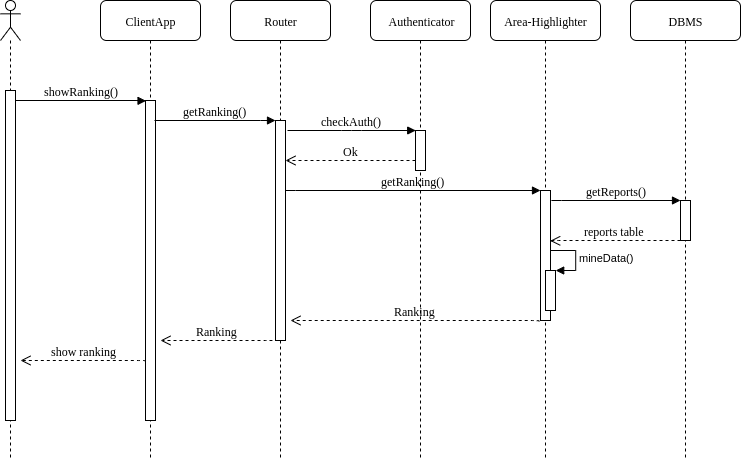
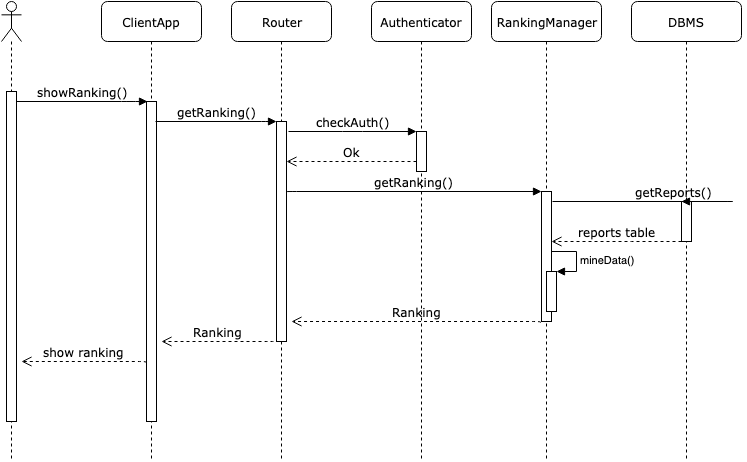
DD section 2 updates

diff --git a/DD/DD-SafeStreets.tex b/DD/DD-SafeStreets.tex
@@ -125,6 +125,7 @@ Furthermore, thanks to the increased number of tickets, the municipality will ha
 
 \section{Architectural design}
 \subsection{Overview: High-level components and their interaction}
+\label{sec:Overview}
 The application will be developed with three logic software layers: 
 \begin{itemize}
 	\item Presentation (P) manages the user interaction with the system 
@@ -165,8 +166,7 @@ the application server uses to offer its functionalities.
 	\item \textbf{ReportManager}: Manages all the requests inerent to reports (e.g. get list of report, send new report) and is responsible to check if the new reports are consistent. Also collects reports form the database to pass them to other components.
 	\item \textbf{Area-Highlighter}: Elaborates the reports to find in which area more violations are committed.
 	\item \textbf{RankingManager}: Elaborates the valid reports to create a ranking of the vehicles that committed more violations.
-	\item \textbf{NotificationManager}: Manage all the subscriptions for notification made by the client's app when a traffic warden log in and send the notification to them when a new report is added.
-	\item \textbf{NotificationManager}: Manage all the subscriptions for notification made by the client's app when a traffic warden log in and send the notification to them when a new report is added.
+	\item \textbf{NotificationManager}: Manages all the subscriptions for notification made by the client's app when a traffic warden log in and send the notification to them when a new report is added.
 	\item \textbf{ALPR}: Elaborates the picture of the violation to extract the license plate. This component is designed to be separate by the others so that if after deployment it will became overload it could be deployed on a different server.
 	\item \textbf{SuggestionSubsystem}: More in detail:
 		\\
@@ -183,6 +183,7 @@ the application server uses to offer its functionalities.
 \newpage
 
 \subsection{Deployment view}
+\label{sec:Deployment}
 The following diagram models the physical deployment of artifacts (software components) on nodes (hardware components).
 External services like the Map Provider are not included.
 \begin{figure}[ht]
@@ -203,7 +204,9 @@ External services like the Map Provider are not included.
 \end{itemize}
 
 \subsection{Runtime view}
- In this section are shown the sequence diagrams of some features. They are useful to clarify the runtime behaviour of the components involved for each functionality.
+\label{sec:Runtime}
+ In this section are shown the sequence diagrams of some features. They are useful to clarify the runtime behaviour of the components involved for each functionality.\\
+ In order to keep the diagrams more readable the parameters of the method invoked are not shown.
 \newpage
 \subsubsection{Report Violation}
 \begin{figure}[ht]
@@ -217,7 +220,7 @@ The numbers present in some responses refer to HTTP response status codes:
 	\item \textbf{201 Created}: The request has been fulfilled, resulting in the creation of a new resource.
 	\item \textbf{400 Bad Request}: The server cannot or will not process the request due to an apparent client error (e.g., malformed request syntax, size too large, invalid request message framing, or deceptive request routing).
 	\item \textbf{401 Unauthorized}: The user does not have valid authentication credentials for the target resource.
-	\item \textbf{409 Conflict}: Indicates that the request could not be processed because of conflict in the current state of the resource, such as an edit conflict between multiple simultaneous updates.
+	\item \textbf{409 Conflict}: Indicates that the request could not be processed because of conflict in the current state of the resource. 
 \end{itemize}
 \subsubsection{Login}
 \begin{figure}[ht]
@@ -241,18 +244,123 @@ This diagram also shows the differences in the login process between a standard 
 
 The diagram shows how there are no human actors involved. This is an automated process triggered by a timer (runs once every day). \\
 The data needed by the SuggestionMiner are fetched from the Municipality Server and from the SafeStreets DBMS. The updated suggestions list is then stored on the database.
+\newpage
+\subsubsection{Visualize area with more violation on the map}
+\begin{figure}[ht]
+\centering
+	\includegraphics[width=1.0\textwidth]{images/area-highlight-sequence.png}
+	\caption{Suggestions sequence diagram}
+	\label{fig:area-highlight-sequence}
+\end{figure}
 
-\subsubsection{Visualize public available data on the map}
+\newpage
+\subsubsection{Visualize ranking of vehicles that committed more violation}
+\begin{figure}[ht]
+\centering
+	\includegraphics[width=1.0\textwidth]{images/ranking-sequence.png}
+	\caption{Suggestions sequence diagram}
+	\label{fig:ranking-sequence}
+\end{figure}
+
+\newpage
 \subsubsection{Visualize suggestions for possible interventions}
+\begin{figure}[ht]
+\centering
+	\includegraphics[width=1.0\textwidth]{images/visualize-suggestion-sequence.png}
+	\caption{Suggestions sequence diagram}
+	\label{fig:visualize-suggestion-sequence}
+\end{figure}
 
+\newpage
 \subsection{Component interfaces}
 Details on method on interfaces previously indentified, consistency check ( labels messages used in runtimeview consistent with the interfaces of components)
 \\
-use tables ?
+use tables with name of the methods rather than diagramith name of the methods rather than diagram
+\\
+This viewpoint consists of a set of interface specifications for each entity.
+
+\begin{itemize}
+	\item \textbf{Router}:
+		\begin{itemize}
+			\item \textbf{API:getReportTypes()}:
+			\item \textbf{API:sendReport()}:
+			\item \textbf{login()}:
+			\item \textbf{subscribe()}:
+			\item \textbf{getHighlightedArea()}:
+			\item \textbf{getRanking()}:
+			\item \textbf{getSuggestion()}:
+		\end{itemize}
+	\item \textbf{Authenticator}:
+		\begin{itemize}
+			\item \textbf{checkAuth()}:
+			\item \textbf{login()}:
+		\end{itemize}
+	\item \textbf{ReportManager}:
+		\begin{itemize}
+			\item \textbf{sendNotification()}:
+			\item \textbf{getReportTypes()}:
+			\item \textbf{saveReport()}:
+			\item \textbf{getReportList()}:
+		\end{itemize}
+	\item \textbf{Area-Highlighter}: 
+		\begin{itemize}
+			\item \textbf{getHighlightedArea()}:
+		\end{itemize}
+	\item \textbf{RankingManager}: 
+		\begin{itemize}
+			\item \textbf{getRanking()}:
+		\end{itemize}
+	\item \textbf{NotificationManager}:
+		\begin{itemize}
+			\item \textbf{sendNotification()}:
+			\item \textbf{subscribe()}:
+		\end{itemize}
+	\item \textbf{ALPR}:
+		\begin{itemize}
+			\item \textbf{recognizeLicensePlate()}:
+		\end{itemize}
+	\item \textbf{SuggestionSubsystem}: More in detail:
+	\item \textbf{SuggestionDisplayer}:
+		\begin{itemize}
+			\item \textbf{getSuggestion()}:
+		\end{itemize}
+	\item \textbf{SuggestionMiner}:
+		\begin{itemize}
+			\item \textbf{start()}:
+		\end{itemize}
+\end{itemize}
+
+
 \subsection{Selected architectural styles and patterns}
 list all design decisions (al least references to ...) explain how they're used , variants...
+\begin{itemize}
+\item \textbf{RESTful architecture}: REST is a software architectural style. \\
+The communication between SafeStreets ApplicationServer and the user application uses HTTP(S) requests which follows REST principles.
+One of the most important REST principles is that the interaction between the client and server is stateless between requests. Each request from the client to the server must contain all of the information necessary to understand the request. For instance the client wouldn’t notice if the server were to be restarted at any point between the requests.
+This is achieved using a uniform and predefined set of stateless operations based on strict use of HTTP request types.\\
+The usage of RESTful requests is clearly visible in the sequence diagrams included in the Runtime View section \ref{sec:Runtime} \\
+The main advantages of REST are:
+
+
+\item \textbf{Three-tier architecture}: \\
+The Three-tier architecture is a client-server software architecture pattern (the most widespread used approach in multitier architecture).
+The usage of this pattern is already specified in the high-level view section \ref{sec:Overview} and in the deployment view section \ref{sec:Deployment}.
+\begin{itemize}
+	\item \textbf{Presentation Tier} \\
+	Layer which users can access directly: using the mobile application available for Android and iOS devices or using the web app (compatible with any modern browser).
+	\item \textbf{Logic Tier} \\ 
+	Controls application’s functionality by performing detailed processing. The application server uses Node.js and handles all the requests coming from the users applications.
+	\item \textbf{Data Tier} \\
+	The data tier includes the data persistence mechanisms (database servers, etc.) and the data access layer that encapsulates the persistence mechanisms and exposes the data. The database machine will run MySQL server (a relational database management system). On this machine will be stored all the persistent data.
+\end{itemize}
+The main advantage of using this architecture is that any of the three tiers can be upgraded or replaced independently, without impacting other areas of the application. This gives the possibilty to scale the application up and out (e.g. by adding multiple servers).
+\end{itemize}
 
 \subsection{Other design decisions}
+data mining
+router 
+nodejs 
+ALPR
 
 \section{User interface design}
 
@@ -272,6 +380,7 @@ list all design decisions (al least references to ...) explain how they're used 
 				24/11/19 & \makebox[1.8cm][c]{3} & \makebox[6.7cm][c]{Architectural design}\\
 				29/11/19 & \makebox[1.8cm][c]{2} & \makebox[6.7cm][c]{Architectural design}\\
 				30/11/19 & \makebox[1.8cm][c]{6} & \makebox[6.7cm][c]{Architectural design}\\
+				01/12/19 & \makebox[1.8cm][c]{2much} & \makebox[6.7cm][c]{Architectural design}\\
 				\hline
 				total    & \makebox[1.8cm][c]{13}
 			\end{tabular}
@@ -291,6 +400,7 @@ list all design decisions (al least references to ...) explain how they're used 
 				23/11/19 & \makebox[1.8cm][c]{1.5} & \makebox[6.7cm][c]{Architectural design}\\
 				29/11/19 & \makebox[1.8cm][c]{0.5} & \makebox[6.7cm][c]{Component view}\\
 				30/11/19 & \makebox[1.8cm][c]{6.5}\makebox[6.7cm][c]{Component Deployment Runtime view}\\
+				01/12/19 & \makebox[1.8cm][c]{2much} & \makebox[6.7cm][c]{Architectural design}\\
 				\hline
 				total    & \makebox[1.8cm][c]{11}
 			\end{tabular}
